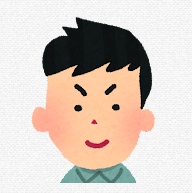
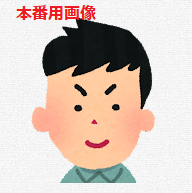
プロフィール画像を正式版に差し替え

Changed region(s): [[0.0625, 0.0, 0.5, 0.1244]]

diff --git a/index.html b/index.html
@@ -60,7 +60,6 @@
                     <article>
                         <h3>スピーカー</h3>
                         <div class="speaker">
-                            <!--TODO: プロフィール画像を受け取ったら更新する-->
                             <img src="images/speaker1.png" alt="" class="image"/>
                             <div class="inner">
                                 <h4>いろふさん</h4>
@@ -68,7 +67,6 @@
                             </div>
                         </div>
                         <div class="speaker">
-                            <!--TODO: プロフィール画像を受け取ったら更新する-->
                             <img src="images/speaker2.png" alt="" class="image"/>
                             <div class="inner">
                                 <h4>うらがみさん</h4>
